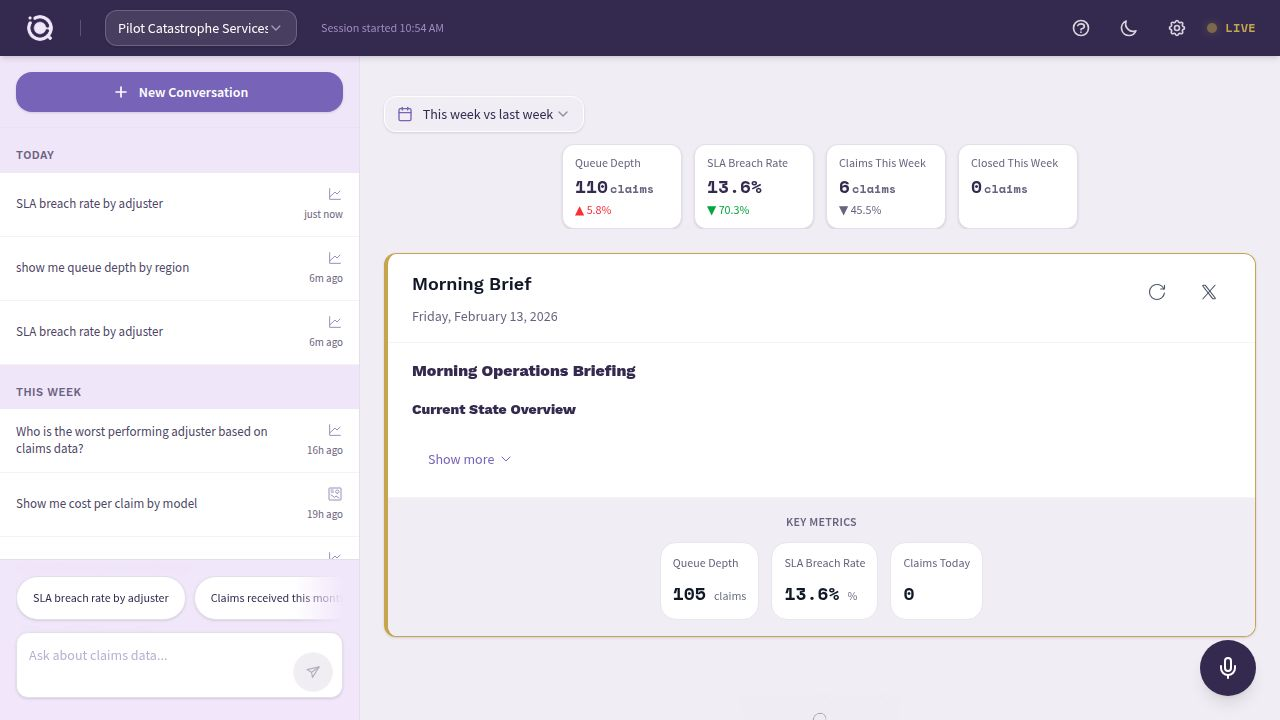
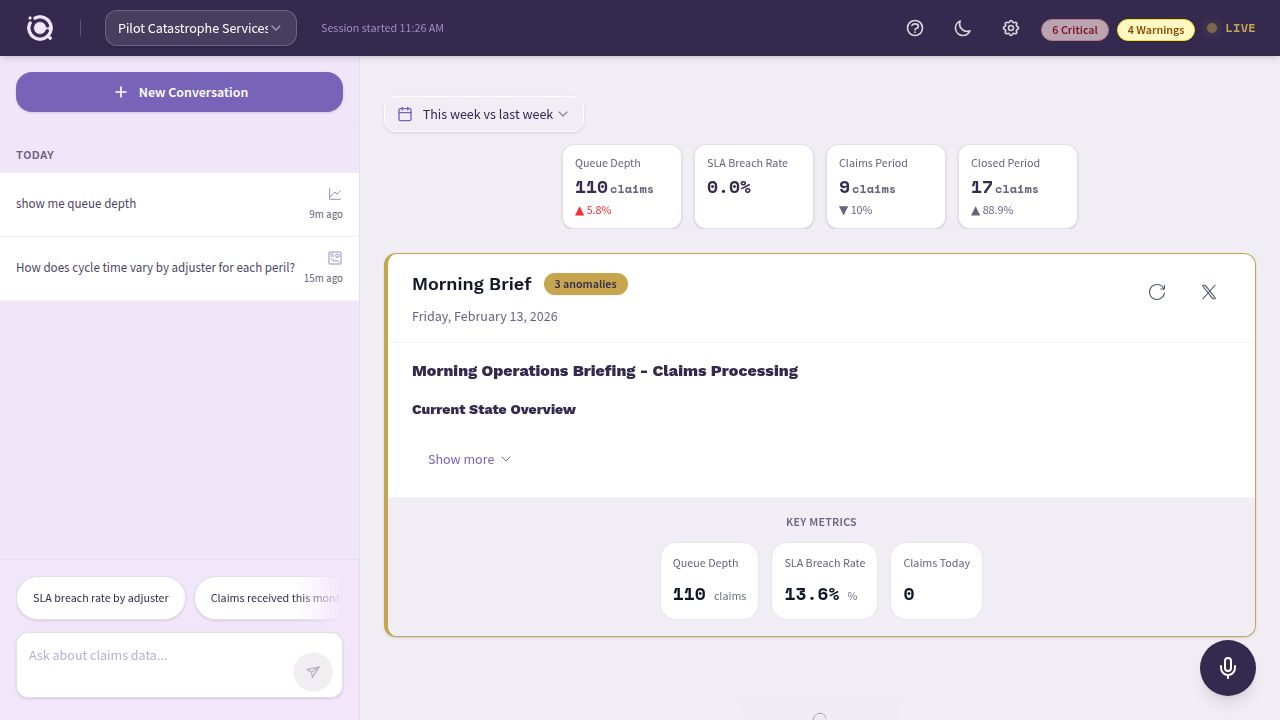
Update dashboard to correctly display data for selected date ranges
Refactor backend KPI queries and frontend date range handling to ensure all metrics accurately reflect the selected period, and update UI labels to dynamically display the current period.

Replit-Commit-Author: Agent
Replit-Commit-Session-Id: e85cfd7e-20cd-45e2-a64c-8139bcba09b3
Replit-Commit-Checkpoint-Type: full_checkpoint
Replit-Commit-Event-Id: c914c98b-287a-44fe-a79d-ad9310d0f5af
Replit-Commit-Screenshot-Url: https://storage.googleapis.com/screenshot-production-us-central1/07e38f39-cdea-4e9b-a3f0-44df17dc898c/e85cfd7e-20cd-45e2-a64c-8139bcba09b3/CqK0YS8
Replit-Helium-Checkpoint-Created: true

diff --git a/client/src/components/KPICards.tsx b/client/src/components/KPICards.tsx
@@ -11,13 +11,6 @@ interface KPIMetric {
   delta?: number;
 }
 
-const DRILL_DOWN_QUESTIONS: Record<string, string> = {
-  "Queue Depth": "Queue depth by region",
-  "SLA Breach Rate": "SLA breach rate by adjuster",
-  "Claims This Week": "Claims received this week by region",
-  "Closed This Week": "Claims closed this week by adjuster",
-};
-
 interface KPICardsProps {
   clientId: string;
   onDrillDown?: (question: string) => void;
@@ -25,20 +18,21 @@ interface KPICardsProps {
 
 function getTrendColor(label: string, trend: "up" | "down" | "neutral"): string {
   if (trend === "neutral") return "text-text-secondary";
-  if (label === "Claims This Week") return "text-text-secondary";
+  if (label.startsWith("Claims")) return "text-text-secondary";
   if (label === "Queue Depth" || label === "SLA Breach Rate") {
     return trend === "up" ? "text-red-500" : "text-green-600";
   }
-  if (label === "Closed This Week") {
+  if (label.startsWith("Closed")) {
     return trend === "up" ? "text-green-600" : "text-red-500";
   }
   return "text-text-secondary";
 }
 
-const DATE_PRESETS: { value: string; label: string; getRange: () => { start: string; end: string } }[] = [
+const DATE_PRESETS: { value: string; label: string; periodLabel: string; getRange: () => { start: string; end: string } }[] = [
   {
     value: "week",
     label: "This week vs last week",
+    periodLabel: "This Week",
     getRange: () => {
       const now = new Date();
       const end = new Date(now);
@@ -50,17 +44,18 @@ const DATE_PRESETS: { value: string; label: string; getRange: () => { start: str
   {
     value: "month",
     label: "This month vs last month",
+    periodLabel: "This Month",
     getRange: () => {
       const now = new Date();
       const end = new Date(now.getFullYear(), now.getMonth(), now.getDate());
-      const start = new Date(end);
-      start.setMonth(start.getMonth() - 1);
+      const start = new Date(end.getFullYear(), end.getMonth(), 1);
       return { start: start.toISOString().split("T")[0], end: end.toISOString().split("T")[0] };
     },
   },
   {
     value: "7d",
     label: "Last 7 days",
+    periodLabel: "Last 7 Days",
     getRange: () => {
       const end = new Date();
       const start = new Date();
@@ -71,6 +66,7 @@ const DATE_PRESETS: { value: string; label: string; getRange: () => { start: str
   {
     value: "30d",
     label: "Last 30 days",
+    periodLabel: "Last 30 Days",
     getRange: () => {
       const end = new Date();
       const start = new Date();
@@ -85,16 +81,19 @@ export const KPICards: React.FC<KPICardsProps> = ({ clientId, onDrillDown }) => 
   const [loading, setLoading] = useState(true);
   const [datePreset, setDatePreset] = useState("week");
 
-  const dateRange = useMemo(() => {
-    const preset = DATE_PRESETS.find((p) => p.value === datePreset);
-    return preset?.getRange() ?? DATE_PRESETS[0].getRange();
-  }, [datePreset]);
+  const preset = useMemo(() => DATE_PRESETS.find((p) => p.value === datePreset) ?? DATE_PRESETS[0], [datePreset]);
+  const dateRange = useMemo(() => preset.getRange(), [preset]);
 
   useEffect(() => {
     const fetchKpis = async () => {
       setLoading(true);
       try {
-        const params = new URLSearchParams({ client_id: clientId, start_date: dateRange.start, end_date: dateRange.end });
+        const params = new URLSearchParams({
+          client_id: clientId,
+          start_date: dateRange.start,
+          end_date: dateRange.end,
+          period_label: preset.periodLabel,
+        });
         const res = await fetch(`/api/kpis?${params}`);
         const json = await res.json();
         if (json.data) setKpis(json.data);
@@ -107,7 +106,15 @@ export const KPICards: React.FC<KPICardsProps> = ({ clientId, onDrillDown }) => 
     fetchKpis();
     const interval = setInterval(fetchKpis, 60000);
     return () => clearInterval(interval);
-  }, [clientId, dateRange.start, dateRange.end]);
+  }, [clientId, dateRange.start, dateRange.end, preset.periodLabel]);
+
+  const getDrillDownQuestion = (label: string): string => {
+    if (label === "Queue Depth") return "Queue depth by region";
+    if (label === "SLA Breach Rate") return "SLA breach rate by adjuster";
+    if (label.startsWith("Claims")) return `Claims received ${preset.periodLabel.toLowerCase()} by region`;
+    if (label.startsWith("Closed")) return `Claims closed ${preset.periodLabel.toLowerCase()} by adjuster`;
+    return label;
+  };
 
   if (loading || kpis.length === 0) return null;
 
@@ -132,10 +139,10 @@ export const KPICards: React.FC<KPICardsProps> = ({ clientId, onDrillDown }) => 
           key={idx}
           className={`px-2.5 md:px-3 py-2 md:py-2.5 min-w-[100px] md:min-w-[120px] border border-surface-grey-lavender dark:border-gray-700 bg-white dark:bg-gray-800 shadow-sm dark:shadow-gray-900/30 shrink-0 ${onDrillDown ? "cursor-pointer hover:ring-2 hover:ring-brand-purple/30 transition-all" : ""}`}
           data-testid={`kpi-card-${kpi.label.toLowerCase().replace(/\s+/g, "-")}`}
-          onClick={() => onDrillDown?.(DRILL_DOWN_QUESTIONS[kpi.label] || kpi.label)}
+          onClick={() => onDrillDown?.(getDrillDownQuestion(kpi.label))}
           role={onDrillDown ? "button" : undefined}
           tabIndex={onDrillDown ? 0 : undefined}
-          onKeyDown={onDrillDown ? (e) => e.key === "Enter" && onDrillDown(DRILL_DOWN_QUESTIONS[kpi.label] || kpi.label) : undefined}
+          onKeyDown={onDrillDown ? (e) => e.key === "Enter" && onDrillDown(getDrillDownQuestion(kpi.label)) : undefined}
         >
           <p className="text-[10px] md:text-xs text-text-secondary dark:text-gray-400 font-medium leading-tight truncate">{kpi.label}</p>
           <p className="text-base md:text-lg font-bold text-brand-deep-purple dark:text-gray-100 font-mono mt-0.5">

diff --git a/server/routes/kpis.ts b/server/routes/kpis.ts
@@ -19,10 +19,10 @@ kpisRouter.get("/api/kpis", async (req: Request, res: Response) => {
       (req.query.client_id as string) || await getDefaultClientId();
     const startDate = req.query.start_date as string | undefined;
     const endDate = req.query.end_date as string | undefined;
+    const periodLabel = (req.query.period_label as string) || "Period";
 
     const safeClientId = clientId.replace(/'/g, "''");
     const today = new Date().toISOString().split("T")[0];
-    const todayEnd = today + "T23:59:59";
 
     let periodStart: string;
     let periodEnd: string;
@@ -44,14 +44,15 @@ kpisRouter.get("/api/kpis", async (req: Request, res: Response) => {
     const [
       queueRes, queuePrevRes,
       slaRes, slaPrevRes,
-      claimsWeekRes, claimsPrevWeekRes,
-      closedWeekRes, closedPrevWeekRes,
+      claimsRes, claimsPrevRes,
+      closedRes, closedPrevRes,
     ] = await Promise.all([
       supabase.rpc("execute_raw_sql", {
         query_text: `
           SELECT COUNT(*)::int as value FROM claims c
           WHERE c.client_id = '${safeClientId}'
             AND c.status NOT IN ('closed', 'denied')
+            AND c.fnol_date <= '${periodEnd}T23:59:59'
         `,
       }),
       supabase.rpc("execute_raw_sql", {
@@ -59,7 +60,7 @@ kpisRouter.get("/api/kpis", async (req: Request, res: Response) => {
           SELECT COUNT(*)::int as value FROM claims c
           WHERE c.client_id = '${safeClientId}'
             AND c.status NOT IN ('closed', 'denied')
-            AND c.fnol_date < '${periodStart}'
+            AND c.fnol_date <= '${prevPeriodEnd}T23:59:59'
         `,
       }),
       supabase.rpc("execute_raw_sql", {
@@ -67,7 +68,8 @@ kpisRouter.get("/api/kpis", async (req: Request, res: Response) => {
           SELECT ROUND(AVG(CASE WHEN c.sla_breached THEN 1.0 ELSE 0.0 END)::numeric, 4) as value
           FROM claims c
           WHERE c.client_id = '${safeClientId}'
-            AND c.fnol_date >= NOW() - INTERVAL '30 days'
+            AND c.fnol_date >= '${periodStart}'
+            AND c.fnol_date <= '${periodEnd}T23:59:59'
         `,
       }),
       supabase.rpc("execute_raw_sql", {
@@ -75,8 +77,8 @@ kpisRouter.get("/api/kpis", async (req: Request, res: Response) => {
           SELECT ROUND(AVG(CASE WHEN c.sla_breached THEN 1.0 ELSE 0.0 END)::numeric, 4) as value
           FROM claims c
           WHERE c.client_id = '${safeClientId}'
-            AND c.fnol_date >= NOW() - INTERVAL '60 days'
-            AND c.fnol_date < NOW() - INTERVAL '30 days'
+            AND c.fnol_date >= '${prevPeriodStart}'
+            AND c.fnol_date < '${prevPeriodEnd}'
         `,
       }),
       supabase.rpc("execute_raw_sql", {
@@ -117,17 +119,17 @@ kpisRouter.get("/api/kpis", async (req: Request, res: Response) => {
 
     const queueDepth = (queueRes.data as any)?.[0]?.value ?? 0;
     const queuePrev = (queuePrevRes.data as any)?.[0]?.value ?? 0;
-    const slaBreachRate = (slaRes.data as any)?.[0]?.value ?? 0;
-    const slaPrev = (slaPrevRes.data as any)?.[0]?.value ?? 0;
-    const claimsThisWeek = (claimsWeekRes.data as any)?.[0]?.value ?? 0;
-    const claimsPrevWeek = (claimsPrevWeekRes.data as any)?.[0]?.value ?? 0;
-    const closedThisWeek = (closedWeekRes.data as any)?.[0]?.value ?? 0;
-    const closedPrevWeek = (closedPrevWeekRes.data as any)?.[0]?.value ?? 0;
+    const slaBreachRate = Number((slaRes.data as any)?.[0]?.value ?? 0);
+    const slaPrev = Number((slaPrevRes.data as any)?.[0]?.value ?? 0);
+    const claimsCurrent = (claimsRes.data as any)?.[0]?.value ?? 0;
+    const claimsPrev = (claimsPrevRes.data as any)?.[0]?.value ?? 0;
+    const closedCurrent = (closedRes.data as any)?.[0]?.value ?? 0;
+    const closedPrev = (closedPrevRes.data as any)?.[0]?.value ?? 0;
 
     const queueTrend = computeTrend(Number(queueDepth), Number(queuePrev));
-    const slaTrend = computeTrend(Number(slaBreachRate), Number(slaPrev));
-    const claimsTrend = computeTrend(Number(claimsThisWeek), Number(claimsPrevWeek));
-    const closedTrend = computeTrend(Number(closedThisWeek), Number(closedPrevWeek));
+    const slaTrend = computeTrend(slaBreachRate, slaPrev);
+    const claimsTrend = computeTrend(Number(claimsCurrent), Number(claimsPrev));
+    const closedTrend = computeTrend(Number(closedCurrent), Number(closedPrev));
 
     res.json({
       success: true,
@@ -141,15 +143,15 @@ kpisRouter.get("/api/kpis", async (req: Request, res: Response) => {
           delta: slaTrend.delta,
         },
         {
-          label: "Claims This Week",
-          value: claimsThisWeek,
+          label: `Claims ${periodLabel}`,
+          value: claimsCurrent,
           unit: "claims",
           trend: claimsTrend.trend,
           delta: claimsTrend.delta,
         },
         {
-          label: "Closed This Week",
-          value: closedThisWeek,
+          label: `Closed ${periodLabel}`,
+          value: closedCurrent,
           unit: "claims",
           trend: closedTrend.trend,
           delta: closedTrend.delta,
